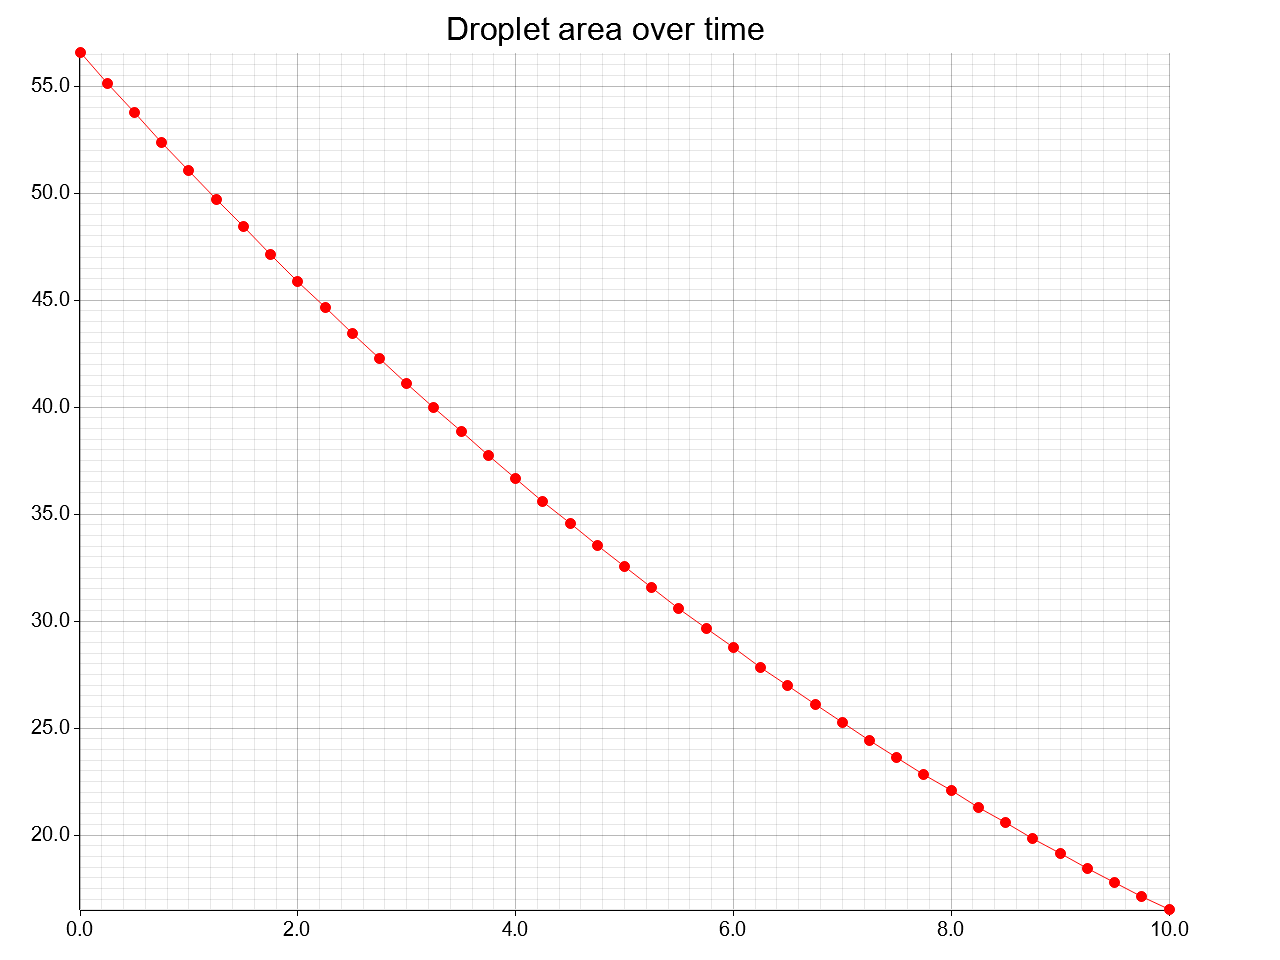
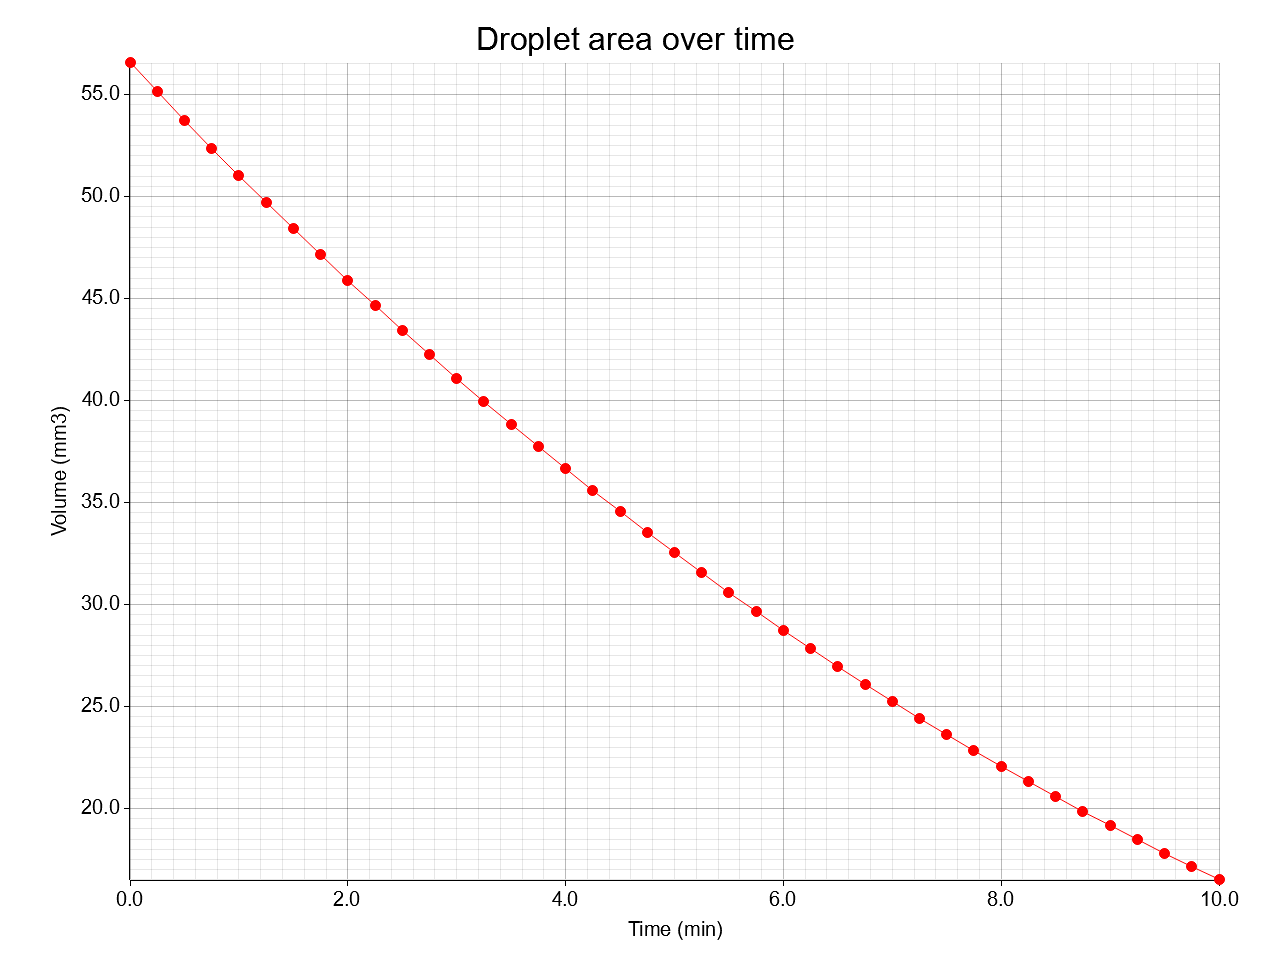
finished homework 1

Changed region(s): [[0.0312, 0.0, 0.9688, 0.9688]]

diff --git a/gmu/690/hw1/src/main.rs b/gmu/690/hw1/src/main.rs
@@ -3,22 +3,31 @@ use plotters::prelude::*;
 const PI: f64 = 3.14159265359;
 
 fn main() {
-    let (t, v_array, rf) = droplet_num_sol(0.1, 0.0, 10.0, 3.0, 0.25);
-    println!("The radius of the droplet at the final time of {t} minutes is {rf:.4}mm^2.");
-    println!("the droplet volume at each time point is {:?}", v_array);
-    if let Err(e) = plot_points(&v_array) {
+    let initial_radius = 3.0; // mm
+    let evaporation_rate = 0.1; // mm/min
+    let initial_time = 0.0; // mins
+    let final_time = 10.0; //mins
+    let time_step_size = 0.25; // mins
+    let (t, v_array, rf) = droplet_num_sol(
+        evaporation_rate,
+        initial_time,
+        final_time,
+        initial_radius,
+        time_step_size,
+    );
+    println!("The radius of the droplet at the final time of {t} minutes is {rf}mm^2.");
+    println!("the droplet volume at each time step is {:?}", v_array);
+    if let Err(e) = plot_points(&v_array, final_time) {
         eprintln!("Plot failed: {}", e);
     };
 }
 
 fn droplet_num_sol(k: f64, ti: f64, tf: f64, ri: f64, dt: f64) -> (f64, Vec<(f64, f64)>, f64) {
-    // k = evaporation rate, ri = initial radius
-    // ti = initial time, tf = final time, dt = step size
     // a = surface area
-    // Equation = dv/dt = -kA
-    // volume of hemisphere = v = 2/3 * pi * r^3
+    // Given Equation = dv/dt = -kA
+    // Equation for volume of hemisphere = v = 2/3 * pi * r^3
     // volume in terms of r = cuberoot((v*3)/(2*pi))
-    // Surface area of hemisphere= a = 2 * pi * r^2
+    // Equation for surface area of hemisphere= a = 2 * pi * r^2
     let mut t = ti;
     let mut r = ri;
     let mut v = (2.0 / 3.0) * PI * r * r * r;
@@ -36,6 +45,7 @@ fn droplet_num_sol(k: f64, ti: f64, tf: f64, ri: f64, dt: f64) -> (f64, Vec<(f64
         r = ((3.0 * v) / (2.0 * PI)).cbrt();
         a = 2.0 * PI * r * r;
         if v <= 0.0 {
+            r = 0.0;
             v_array.push((t, 0.0));
             break;
         };
@@ -53,7 +63,7 @@ fn droplet_num_sol(k: f64, ti: f64, tf: f64, ri: f64, dt: f64) -> (f64, Vec<(f64
     (t, v_array, r)
 }
 
-fn plot_points(droplet_area: &Vec<(f64, f64)>) -> Result<(), Box<dyn std::error::Error>> {
+fn plot_points(droplet_area: &Vec<(f64, f64)>, tf: f64) -> Result<(), Box<dyn std::error::Error>> {
     let x_min = droplet_area
         .iter()
         .map(|p| p.0)
@@ -71,17 +81,21 @@ fn plot_points(droplet_area: &Vec<(f64, f64)>) -> Result<(), Box<dyn std::error:
         .map(|p| p.1)
         .fold(f64::NEG_INFINITY, f64::max);
 
-    let root = BitMapBackend::new("plotters-doc-data/droplet_area_10_min.png", (1280, 960))
-        .into_drawing_area();
+    let file_folder = "plotters-doc-data";
+    let file_name = format!("droplet_area_{tf}_min");
+    let path_name = format!("{file_folder}/{file_name}.png");
+    let path_name_ref: &str = &path_name;
+    let root = BitMapBackend::new(path_name_ref, (1280, 960)).into_drawing_area();
     let _ = root.fill(&WHITE);
-    let root = root.margin(10, 10, 40, 110);
+    let root = root.margin(10, 10, 40, 50);
     // After this point, we should be able to construct a chart context
     let mut chart = ChartBuilder::on(&root)
         // Set the caption of the chart
         .caption("Droplet area over time", ("sans-serif", 40).into_font())
+        .margin(10)
         // Set the size of the label region
-        .x_label_area_size(40)
-        .y_label_area_size(40)
+        .x_label_area_size(60)
+        .y_label_area_size(80)
         // Finally attach a coordinate on the drawing area and make a chart context
         .build_cartesian_2d(x_min..x_max, y_min..y_max)?;
 
@@ -90,7 +104,9 @@ fn plot_points(droplet_area: &Vec<(f64, f64)>) -> Result<(), Box<dyn std::error:
         .configure_mesh()
         // We can customize the maximum number of labels allowed for each axis
         .x_labels(10)
+        .x_desc("Time (min)")
         .y_labels(10)
+        .y_desc("Volume (mm3)")
         .label_style(("sans-serif", 25))
         .draw()?;
 
